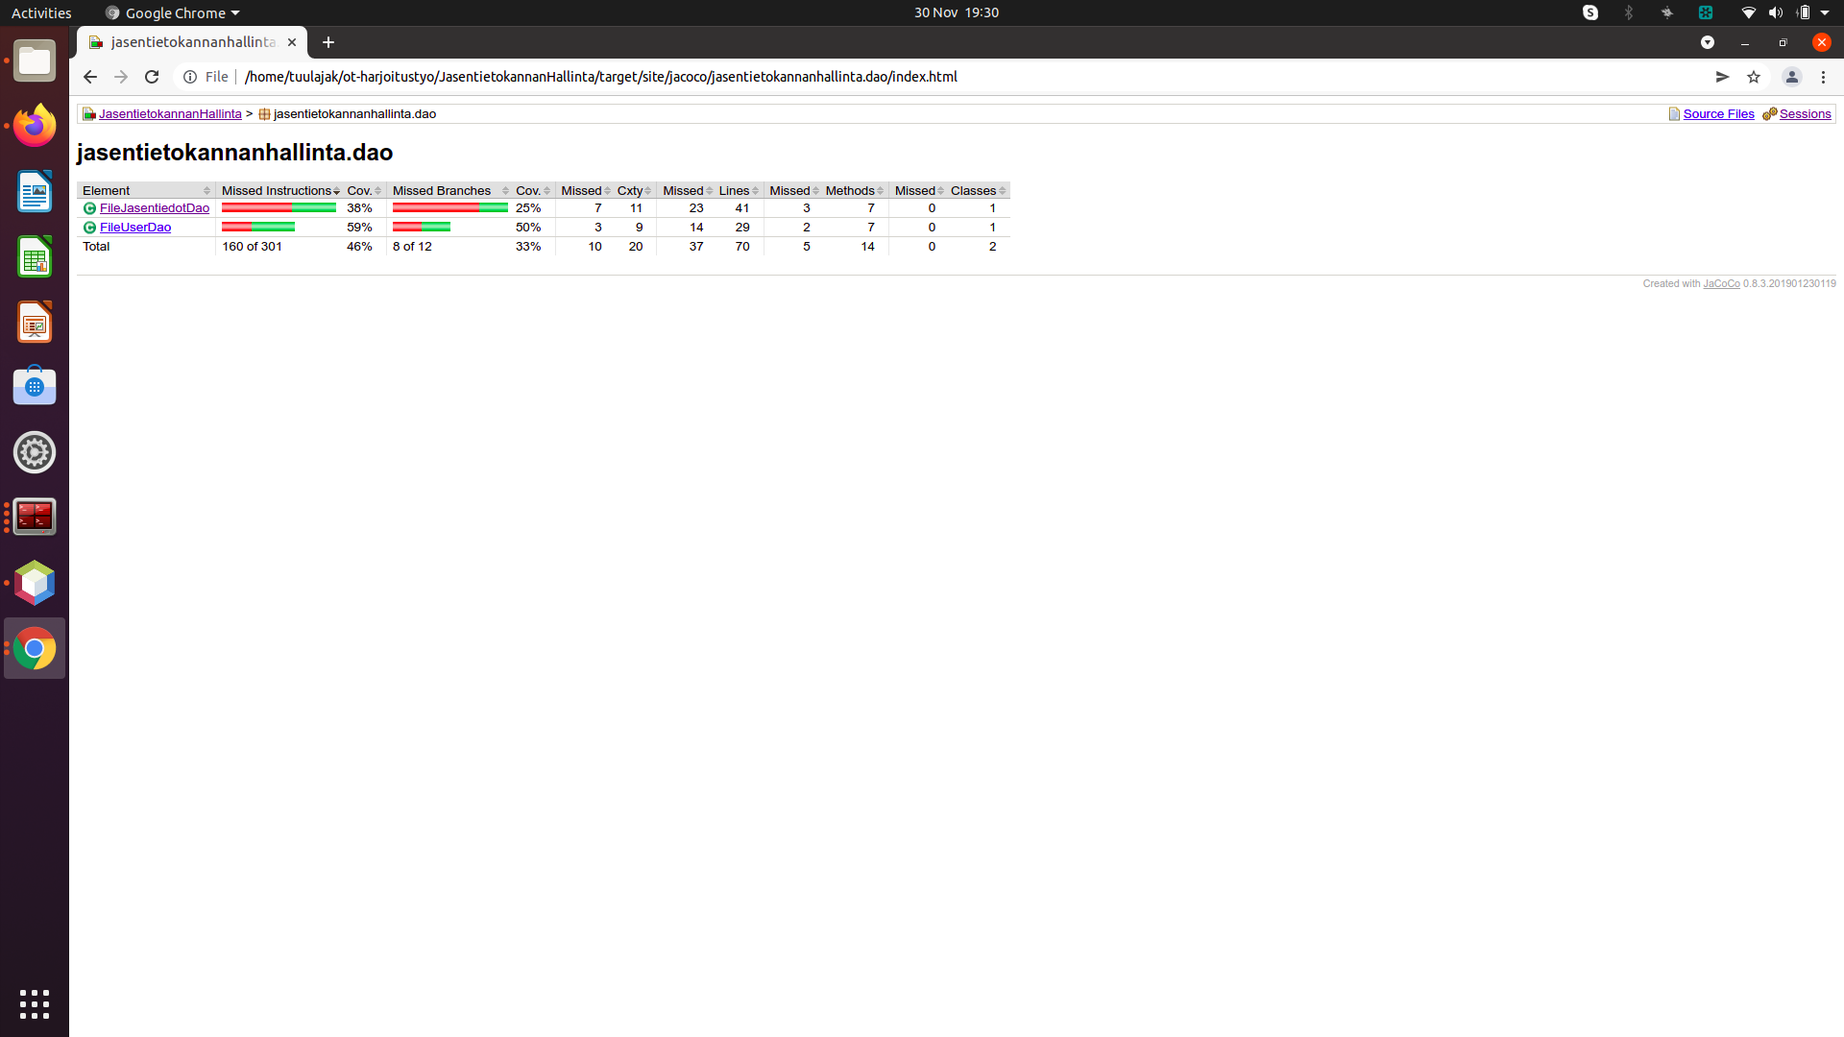
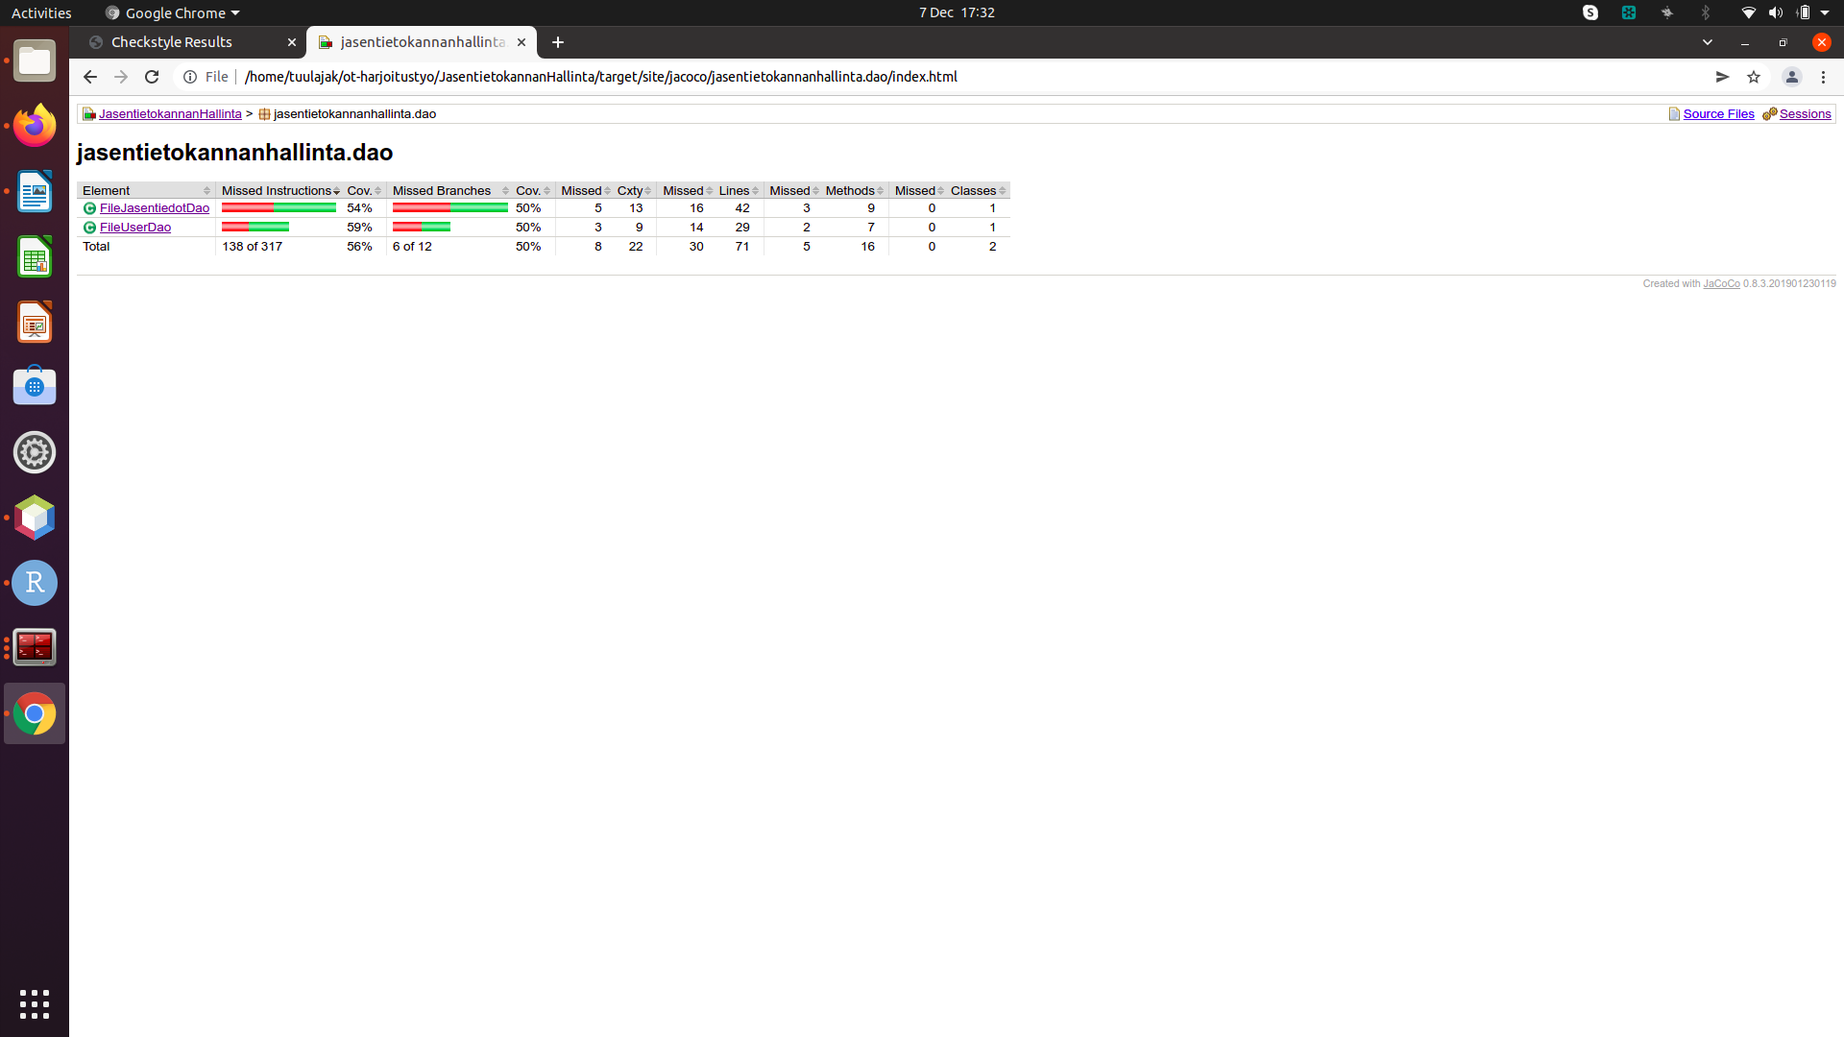
improvements, generating jar

diff --git a/JasentietokannanHallinta/src/main/java/jasentietokannanhallinta/ui/JasentietokannanhallintaUi.java b/JasentietokannanHallinta/src/main/java/jasentietokannanhallinta/ui/JasentietokannanhallintaUi.java
@@ -32,7 +32,7 @@ public class JasentietokannanhallintaUi extends Application {
     
     private VBox jasentiedotNodes;
     private Label menuLabel = new Label();
-
+    
     @Override
     public void init() {
         FileUserDao userDao = new FileUserDao("users.txt");
@@ -101,6 +101,7 @@ public class JasentietokannanhallintaUi extends Application {
                 loginMessage.setText("");
                 primaryStage.setScene(mainScene);  
                 usernameInput.setText("");
+                passwordInput.setText("");
             } else {
                 loginMessage.setText("user does not exist");
                 loginMessage.setTextFill(Color.RED);
@@ -109,6 +110,7 @@ public class JasentietokannanhallintaUi extends Application {
 
         createButton.setOnAction(e-> {
             usernameInput.setText("");
+            passwordInput.setText("");
             primaryStage.setScene(newUserScene);   
         });  
 
@@ -162,6 +164,9 @@ public class JasentietokannanhallintaUi extends Application {
                 userCreationMessage.setText("");                
                 loginMessage.setText("new user created");
                 loginMessage.setTextFill(Color.GREEN);
+                newUsernameInput.setText("");
+                newNameInput.setText("");
+                newPasswordInput.setText("");
                 primaryStage.setScene(loginScene);      
             } else {
                 userCreationMessage.setText("username has to be unique");
@@ -170,6 +175,9 @@ public class JasentietokannanhallintaUi extends Application {
 
         });  
         goBackNewUserButton.setOnAction(e-> {
+            newUsernameInput.setText("");
+            newNameInput.setText("");
+            newPasswordInput.setText("");
             primaryStage.setScene(loginScene);
         });
         
@@ -179,6 +187,8 @@ public class JasentietokannanhallintaUi extends Application {
 
         newUserScene = new Scene(newUserPane, 900, 500);
 
+        // main scene
+        
         VBox mainPane = new VBox(10);
         
         HBox menuPane = new HBox(10);    
@@ -195,8 +205,20 @@ public class JasentietokannanhallintaUi extends Application {
         findLabel.setPrefWidth(100);
         Button findMemberButton = new Button("find");
         
-        findMemberButton.setOnAction(e-> { //add find member function
-            primaryStage.setScene(findMemberScene);   
+        Label memberNotFoundLabel = new Label("");
+        memberNotFoundLabel.setPrefWidth(400);
+        
+        findMemberButton.setOnAction(e-> { // add pass information between scenes function
+            String findmembername = findInput.getText();
+            if (jasentiedotService.doesMemberNameExist(findmembername)) {
+                memberNotFoundLabel.setText("");
+                findInput.setText("");
+                primaryStage.setScene(findMemberScene); 
+            } else {
+                memberNotFoundLabel.setText("member not found");
+                memberNotFoundLabel.setTextFill(Color.RED); 
+                findInput.setText("");
+            }
         });
         
         findPane.getChildren().addAll(findLabel, findInput, findMemberButton);
@@ -207,7 +229,7 @@ public class JasentietokannanhallintaUi extends Application {
             primaryStage.setScene(newMemberScene);   
         });
         
-        mainPane.getChildren().addAll(menuPane, findPane, createMemberButton);
+        mainPane.getChildren().addAll(menuPane, memberNotFoundLabel, findPane, createMemberButton);
         
         mainScene = new Scene(mainPane, 900, 500);
         
@@ -238,13 +260,16 @@ public class JasentietokannanhallintaUi extends Application {
         
         HBox createNewMemberButtonPane = new HBox(10);
         createNewMemberButtonPane.setPadding(new Insets(10));
-        Button createNewMemberButton = new Button("create"); //add create function
+        Button createNewMemberButton = new Button("create");
         Button goBackCreateNewMemberButton = new Button("back");
         
         createNewMemberButton.setOnAction(e-> {
             primaryStage.setScene(mainScene);   
         });
         goBackCreateNewMemberButton.setOnAction(e-> {
+            createNewMemberNameInput.setText("");
+            createNewMemberAddressInput.setText("");
+            createNewMemberPhoneInput.setText("");
             primaryStage.setScene(mainScene);
         });
         
@@ -254,33 +279,32 @@ public class JasentietokannanhallintaUi extends Application {
         newMemberPane.getChildren().addAll(createNewMemberNamePane, createNewMemberAddressPane, 
             createNewMemberPhonePane, createNewMemberButtonPane);
         
-        /*
-
         Label memberCreationMessage = new Label();
 
         
-        createNewMemberButton.setOnAction(e-> {
-            String newmembername = newMemberNameInput.getText();
-            String newmemberaddress = newMemberAddressInput.getText();
-            String newmemberphone = newMemberPhoneInput.getText();
-            int newmemberid = 
+        createNewMemberButton.setOnAction(e-> { 
+            String newmembername = createNewMemberNameInput.getText();
+            String newmemberaddress = createNewMemberAddressInput.getText();
+            String newmemberphone = createNewMemberPhoneInput.getText();
             
-            if (newmembername.length() == 2 || newmemberaddress.length() < 2 || newmemberphone.length() < 8) {
-                userCreationMessage.setText("name or address or phone too short");
-                userCreationMessage.setTextFill(Color.RED);              
-            } else if (jasentiedotService.createJasentiedot(membername, memberaddress, memberphone)) {//
-                userCreationMessage.setText("");                
-                loginMessage.setText("new user created");
-                loginMessage.setTextFill(Color.GREEN);
-                primaryStage.setScene(loginScene);      
+            if (newmembername.length() < 3 || newmemberaddress.length() < 3 || newmemberphone.length() < 8) {
+                memberCreationMessage.setText("name or address or phone too short");
+                memberCreationMessage.setTextFill(Color.RED);              
+            } else if (jasentiedotService.createNewMember(newmembername, newmemberaddress, newmemberphone)) {
+                memberCreationMessage.setText("");                
+                memberNotFoundLabel.setText("new member created");
+                memberNotFoundLabel.setTextFill(Color.GREEN);
+                createNewMemberNameInput.setText("");
+                createNewMemberAddressInput.setText("");
+                createNewMemberPhoneInput.setText("");
+                primaryStage.setScene(mainScene);      
             } else {
-                userCreationMessage.setText("username has to be unique");
-                userCreationMessage.setTextFill(Color.RED);        
+                memberCreationMessage.setText("username has to be unique");
+                memberCreationMessage.setTextFill(Color.RED);        
             }
 
         });  
-        */
-        
+                
         newMemberScene = new Scene(newMemberPane, 900, 500);
         
         // find member scene
@@ -313,10 +337,26 @@ public class JasentietokannanhallintaUi extends Application {
         Button goBackButton = new Button("back");
         Button editMemberButton = new Button("edit");
         
+        //add pass string findmembername form main scene to find member scene
+        
+        //String foundname = "name";
+        //String foundaddress = "address";
+        //String foundphone = "phone";
+        
+        //findMemberNameInput.setText(foundname);
+        //findMemberAddressInput.setText(foundaddress);
+        //findMemberPhoneInput.setText(foundphone);
+        
         goBackButton.setOnAction(e-> {
+            findMemberNameInput.setText("");
+            findMemberAddressInput.setText("");
+            findMemberPhoneInput.setText("");
             primaryStage.setScene(mainScene);   
         });
-        editMemberButton.setOnAction(e-> { //add edit function
+        editMemberButton.setOnAction(e-> { //add edit function - change existing member, not create new member
+            findMemberNameInput.setText("");
+            findMemberAddressInput.setText("");
+            findMemberPhoneInput.setText("");
             primaryStage.setScene(mainScene);   
         });
         

diff --git a/JasentietokannanHallinta/src/main/java/jasentietokannanhallinta/domain/JasentiedotService.java b/JasentietokannanHallinta/src/main/java/jasentietokannanhallinta/domain/JasentiedotService.java
@@ -70,7 +70,7 @@ public class JasentiedotService {
         
     }
     
-    public boolean createNewMember(String name, String address, String phone){
+    public boolean createNewMember(String name, String address, String phone) {
         if (jasentiedotDao.findMemberName(name) != null) {
             return false;
         }
@@ -79,14 +79,20 @@ public class JasentiedotService {
         return true;
     }
     
-    public boolean doesMemberNameExist(String name){
-        if(jasentiedotDao.findMemberName(name) == null) return false;
+    public boolean doesMemberNameExist(String name) {
+        if (jasentiedotDao.findMemberName(name) == null) {
+            return false;
+        }
         return true;
     }
     
-    public Jasentiedot findMemberByName(String name){
+    public Jasentiedot findMemberByName(String name) {
         return jasentiedotDao.findMemberName(name);
     }
     
+    public String getFoundMemberName(String name) {
+        Jasentiedot jasentiedot = jasentiedotDao.findMemberName(name);
+        return jasentiedot.getName();
+    }
 }
         

diff --git a/JasentietokannanHallinta/src/main/java/jasentietokannanhallinta/ui/Main.java b/JasentietokannanHallinta/src/main/java/jasentietokannanhallinta/ui/Main.java
@@ -1,0 +1,11 @@
+package jasentietokannanhallinta.ui;
+
+import jasentietokannanhallinta.ui.JasentietokannanhallintaUi;
+
+public class Main {
+    
+    public static void main(String[] args) {
+        JasentietokannanhallintaUi.main(args);
+    }
+    
+}

diff --git a/JasentietokannanHallinta/dokumentaatio/vaatimusmaarittely.md b/JasentietokannanHallinta/dokumentaatio/vaatimusmaarittely.md
@@ -10,11 +10,11 @@ Alkuvaiheessa sovelluksella on vain yksi käyttäjärooli, eli pääkäyttäjä.
 
 ## Käyttöliittymäluonnos
 
-- Sovellus koostuu viidestä eri näkymästä: "tehty"
+- Sovellus koostuu viidestä eri näkymästä: 
 
 <img src="https://github.com/2laJ2/ot-harjoitustyo/blob/master/JasentietokannanHallinta/dokumentaatio/kuvat/kayttoliittymaluonnos.jpg" width="750">
 
-- Sovellus aukeaa kirjautumisnäkymään, josta on mahdollista siirtyä uuden käyttäjän luomisnäkymään tai kirjautumisen onnistuessa sovelluksen käyttönäkymään "tehty"
+- Sovellus aukeaa kirjautumisnäkymään, josta on mahdollista siirtyä uuden käyttäjän luomisnäkymään tai kirjautumisen onnistuessa sovelluksen käyttönäkymään
   - käyttönäkymässä on mahdollista etsiä jäsentietoja tai luoda uusi jäsen 
   - valittaessa uuden jäsenen luonti sovellus siirtyy uuden jäsenen luomisnäkymään
   - valittaessa jäsentietojen haku sovellus siirtyy olemassaolevien jäsentietojen käyttönäkymään, jossa on mahdollista muokata tietoja tai palata takaisin muuttamatta tietoja
@@ -23,37 +23,42 @@ Alkuvaiheessa sovelluksella on vain yksi käyttäjärooli, eli pääkäyttäjä.
 
 ### Ennen kirjautumista
 
-- (pää)käyttäjä voi luoda järjestelmään käyttäjätunnuksen "tehty"
-  - käyttäjätunnuksen täytyy olla uniikki ja pituudeltaan vähintään 3 merkkiä "tehty"
+- (pää)käyttäjä voi luoda järjestelmään käyttäjätunnuksen
+  - käyttäjätunnuksen täytyy olla uniikki ja pituudeltaan vähintään 3 merkkiä 
 
-- (pää)käyttäjä voi kirjautua järjestelmään "tehty"
-  - olemassaoleva käyttäjätunnus ja salasana syötetään kirjautumislomakkeelle "tehty" (järjestelmä ei vielä toistaiseksi tarkista, onko syötetty salasana oikein)
-  - jos käyttäjätunnusta ei ole olemassa, järjestelmä antaa ilmoituksen "tehty"
+- (pää)käyttäjä voi kirjautua järjestelmään
+  - olemassaoleva käyttäjätunnus ja salasana syötetään kirjautumislomakkeelle (järjestelmä ei vielä toistaiseksi tarkista, onko syötetty salasana oikein)
+  - jos käyttäjätunnusta ei ole olemassa, järjestelmä antaa ilmoituksen
 
 ### Kirjautumisen jälkeen
 
-- (pää)käyttäjä näkee seuran jäsentietokantavalikon / jäsentietojen hakunäkymän "tehty"
+- (pää)käyttäjä näkee seuran jäsentietokantavalikon / jäsentietojen hakunäkymän
 
-- (pää)käyttäjä voi valita haluamansa toiminnon "tehty"
-  - tietokannan muokkaus, jolloin (pää)käyttäjä siirtyy uuden jäsenen luontinäkymään "tehty"
-  - jäsentietojen haku tietokannasta halutuilla kriteereillä, jolloin (pää)käyttäjä siirtyy jäsentietojen tarkastelu / muokkausnäkymään "tehty"
+- (pää)käyttäjä voi valita haluamansa toiminnon
+  - tietokannan muokkaus, jolloin (pää)käyttäjä siirtyy uuden jäsenen luontinäkymään
+  - jäsentietojen haku tietokannasta halutuilla kriteereillä, jolloin (pää)käyttäjä siirtyy jäsentietojen tarkastelu / muokkausnäkymään
+    - järjestelmä löytää samalla käyttökerralla järjestelmään tallennetun jäsenen annetun nimen ollessa oikea (toistaiseksi järjestelmä ei vielä tallenna jäseniä seuraavaa käyttökertaa varten) "tehty"    
 
-- (pää)käyttäjä voi siirtyä uuden jäsen luontinäkymästä ja jäsentietojen tarkastelu / muokkausnäkymästä takaisin jäsentietokantavalikkoon "tehty"
-  - uuden jäsenen luontinäkymässä voidaan luoda uusi jäsen (toimintoa uuden jäsenen luonti ei ole vielä lisätty)
-  - uuden jäsenen luontinäkymästä voi siirtyä takaisin jäsentietojen hakunäkymään "tehty"
-  - jäsentietojen tarkastelunäkymässä voidaan muokata olemassaolevia jäsentietoja (toimintoa jäsentietojen muokkaus ei ole vielä lisätty)
-  - jäsentietojen tarkastelunäkymästä voi siirtyä takaisin jäsentietojen hakunäkymään "tehty"
+- (pää)käyttäjä voi siirtyä uuden jäsen luontinäkymästä ja jäsentietojen tarkastelu / muokkausnäkymästä takaisin jäsentietokantavalikkoon
+  - uuden jäsenen luontinäkymässä voidaan luoda uusi jäsen "tehty"
+    - jäsenestä tallennetaan jäsentietoihin nimi, osoite ja puhelinnumero "tehty"
+  - uuden jäsenen luontinäkymästä voi siirtyä takaisin jäsentietojen hakunäkymään joko luomalla uusi jäsen tai valitsemalla paluutoiminto ilman uuden jäsenen luontia "tehty"
+  - jäsentietojen tarkastelunäkymässä voidaan muokata olemassaolevia jäsentietoja (toimintoa jäsentietojen muokkaus ei ole vielä lisätty, eikä näkymä vielä toistaiseksi näytä löydetyn jäsenen tietoja)
+  - jäsentietojen tarkastelunäkymästä voi siirtyä takaisin jäsentietojen hakunäkymään valitsemalla jäsentietojen muokkaus (muokkaustoimintoa ei vielä lisätty) tai paluutoiminto ilman muokkausta "tehty"
+
+- siirryttäessä näkymästä toiseen järjestelmä tyhjentää tekstikentät, jolloin siirryttäessä samaan näkymään uudelleen näkymässä ei ole edellisen käyttökerran tietoja "tehty"
 
 - myöhemmin lisättävillä normaaleilla käyttäjillä voidaan rajoittaa pääsy vain osaan jäsentietokannan tiedoista 
 
-- käyttäjä voi kirjautua ulos järjestelmästä "tehty"
+- käyttäjä voi kirjautua ulos järjestelmästä
+- seuraavalla käyttökerralla järjestelmä muistaa käyttäjän, käyttäjä voi suoraan kirjautua järjestelmään
 
 ## Jatkokehitysideoita
 
 Perusversion jälkeen järjestelmää täydennetään ajan salliessa esim. seuraavanlaisilla toiminnoilla:
 
-- pääkäyttäjä voi luoda järjestelmään uuden  käyttäjätunnuksen yksilöllisine salasanoineen (normaali käyttäjä) "tehty" (mutta järjestelmä ei vielä toistaiseksi tarkista onko salasana oikea)
-  - salasanan täytyy olla uniikki ja pituudeltaan vähintään 10 merkkiä "tehty"
+- pääkäyttäjä voi luoda järjestelmään uuden  käyttäjätunnuksen yksilöllisine salasanoineen (normaali käyttäjä) (mutta järjestelmä ei vielä toistaiseksi tarkista onko salasana oikea)
+  - salasanan täytyy olla uniikki ja pituudeltaan vähintään 10 merkkiä
   - pääkäyttäjä voi määritellä yksilöllisesti uuden käyttäjän pääsyn eri jäsentietoihin, esim. toimistosihteerillä hyvin rajattu pääsy
   - pääkäyttäjä voi lisäksi määritellä erilaisia käyttäjätiimejä seuran tarpeiden mukaan, esim. yhdistyksen hallitus
   - pääkäyttäjä voi poistaa käyttäjätunnuksen tai vaihtaa käyttäjätunnuksen salasanan

diff --git a/JasentietokannanHallinta/dokumentaatio/tyoaikakirjanpito.md b/JasentietokannanHallinta/dokumentaatio/tyoaikakirjanpito.md
@@ -11,14 +11,22 @@
 |        | 1      | kahden testin luominen |
 |        |        | Jacocon konfigurointi pom.xml-tiedostoon | 
 |        | 1      | UserTest testikattavuus 100%, JasentiedotTest 97% |
-|        | 1      | Dokumentaation päivitystä |
+|        | 1      | dokumentaation päivitystä |
 | 29.11. | 1      | Checkstylen käyttöönotto ja checkstyle-virheiden korjausta
-|        | 2.5    | Käyttönäkymän, uuden käyttäjän luomisnäkymän, jäsentietojen hakunäkymän päivitystä |
-|        | 1      | Uuden jäsentietojen luomisnäkymän ja jäsentietojen muokkausnäkymän päivitystä |
-|        | 0.5    | Testauksen päivittäminen |
+|        | 2.5    | käyttönäkymän, uuden käyttäjän luomisnäkymän, jäsentietojen hakunäkymän päivitystä |
+|        | 1      | uuden jäsentietojen luomisnäkymän ja jäsentietojen muokkausnäkymän päivitystä |
+|        | 0.5    | testauksen päivittäminen |
 | 30.11. | 3      | Käyttöliittymän muokkausta; kaikki viisi näkymää näyttävät oikeanlaisilta, linkit näkymien välillä toimivat |
-|        | 2      | Dokumentaation päivitystä; kuvien siirto omaan kansioon, arkkitehtuuri.md lisäys |  
-|        | 1      | Dokumentaation päivitystä; vaatimusmaarittely.md, Readme.md |
+|        | 2      | dokumentaation päivitystä; kuvien siirto omaan kansioon, arkkitehtuuri.md lisäys |  
+|        | 1      | dokumentaation päivitystä; vaatimusmaarittely.md, Readme.md |
 |        | 1.5    | uuden testin luominen, testaus.md päivittäminen |
 | 6.12.  | 3      | kahden uuden linkkinappulan luonti näkymien välille, uusien metodien luominen ja testien kirjoittaminen niille | 
-| yht.	 | 33.5   | |
+| 7.12.  | 5.5    | lisätty toiminto uuden jäsenen luominen uuden jäsenen luomisnäkymään |
+|        |        | lisätty toiminto jäsentietojen hakunäkymän find- toiminto löytää jäsenen (jos jäsen on ensin luotu samalla käyttökerralla) |
+|        |        | lisätty tekstikenttien tyhjentyminen linkkiä seurattaessa |
+|        |        | muokattu tiedostoa pom.xml suoritettavan jarin generoimiseksi ja varmistettu jarin toimivuus |
+|        |        | checktyle-virheiden korjaus |
+|        |        | userTest testikattavuus 81%, jasentiedotTest 97%, jasentiedotServiceTest 61% |
+|        |        | dokumentaation päivitystä |
+|        | 1      | tutustuminen GitHub Releasen tekemisestä annettuihin ohjeisiin ja materiaaleihin |
+| yht.	 | 40     | |

diff --git a/README.md b/README.md
@@ -23,10 +23,12 @@ Ohjelma toteuttaa seuraavat määrittelydokumentissa kuvaillut toiminnot:
 - (pää)käyttäjä näkee seuran jäsentietokantavalikon
 
 - (pää)käyttäjä voi valita haluamansa toiminnon
-  - tietokannan muokkaus, jolloin (pää)käyttäjä siirtyy uuden jäsenen luontinäkymään (toimintoa uuden jäsenen luonti ei ole vielä lisätty)
+  - tietokannan muokkaus, jolloin (pää)käyttäjä siirtyy uuden jäsenen luontinäkymään (järjestelmä ei toistaiseksi tallenna jäsentietoja seuraavaa käyttökertaa varten)
   - jäsentietojen haku tietokannasta halutuilla kriteereillä, jolloin (pää)käyttäjä siirtyy jäsentietojen tarkastelu / muokkausnäkymään (toimintoa jäsentietojen muokkaus ei ole vielä lisätty)
+    - järjestelmä löytää samalla käyttökerralla tallennetut jäsentiedot annetun nimen perusteella (toimintoa löydettyjen jäsentietojen tarkastelu ei ole vielä lisätty)
 
 - (pää)käyttäjä voi siirtyä uuden jäsen luontinäkymästä ja jäsentietojen tarkastelu / muokkausnäkymästä takaisin jäsentietokantavalikkoon
+  - siirryttäessä eri näkymään järjestelmä tyhjentää näkymässä olevat jäsentiedot ennen siirtymistä
 
 - (pää)käyttäjä voi kirjautua ulos järjestelmästä
 
@@ -40,6 +42,10 @@ Ohjelma toteuttaa seuraavat määrittelydokumentissa kuvaillut toiminnot:
 [Testausdokumentti](https://github.com/2laJ2/ot-harjoitustyo/blob/master/JasentietokannanHallinta/dokumentaatio/testaus.md)
 
 [Arkkitehtuurikuvaus](https://github.com/2laJ2/ot-harjoitustyo/blob/master/JasentietokannanHallinta/dokumentaatio/arkkitehtuuri.md)
+
+## Releaset
+
+[Viikko 5](https://github.com/2laJ2/ot-harjoitustyo/releases/tag/viikko5)
 
 ## Komentorivitoiminnot
 
@@ -66,6 +72,17 @@ mvn test jacoco:report
 ```
 
 Kattavuusraportti avataan tarkasteltavaksi avaamalla selaimella tiedosto target/site/jacoco/index.html
+
+### Suoritettavan jarin generointi
+
+Komento
+
+```
+mvn package
+```
+
+generoi hakemistoon _target_ suoritettavan jar-tiedoston JasentietokannanHallinta-1.0-SNAPSHOT.jar
+
 
 ### Checkstyle
 
